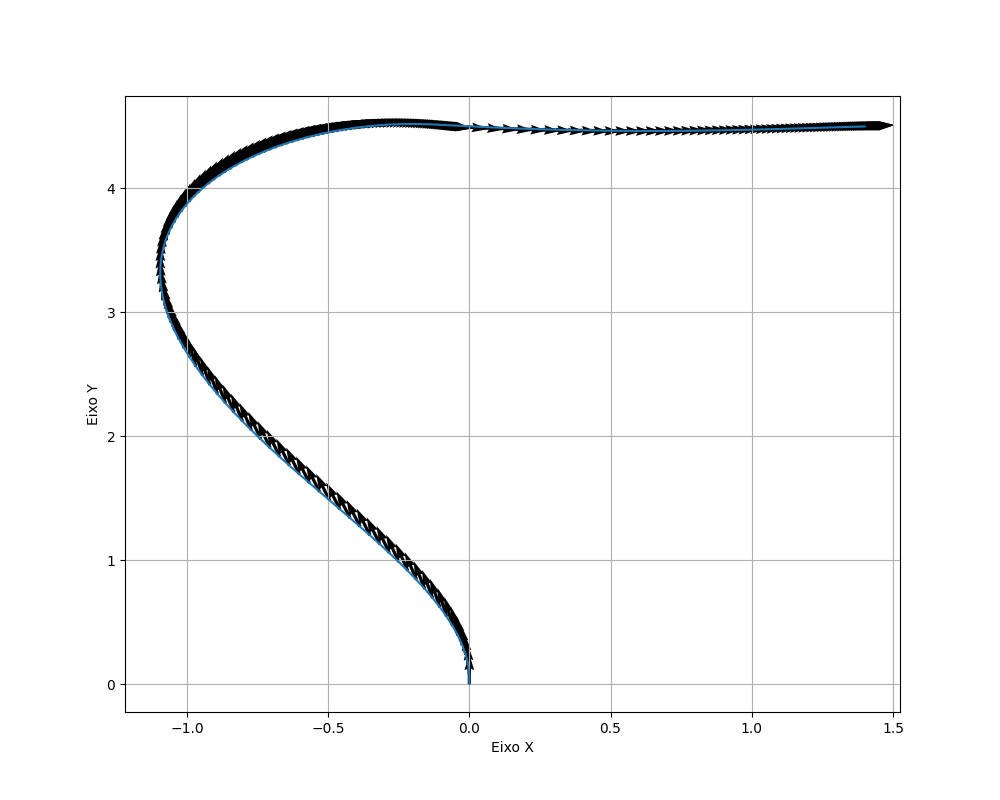
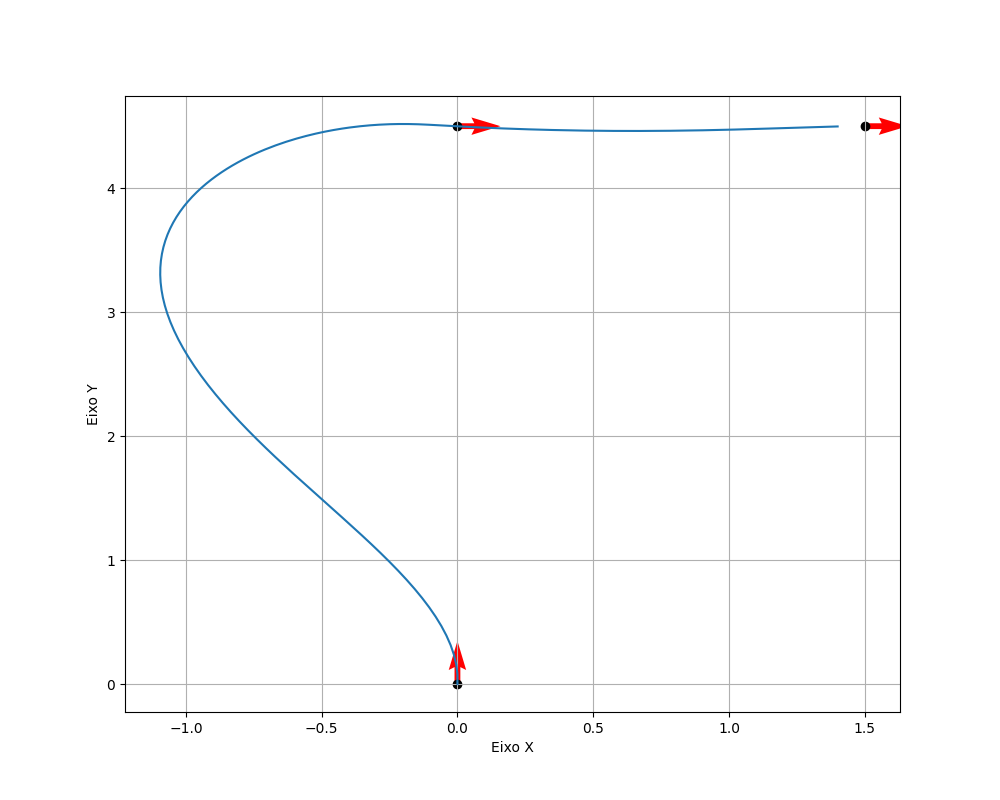
updating plot method

diff --git a/Trabalhos/Trabalho 2/robot.py b/Trabalhos/Trabalho 2/robot.py
@@ -104,7 +104,8 @@ class Robot:
                 self.differentialMovement(dt)
                 history.append(self.get_position())
                 rho, gamma, alpha, beta = self.calculateParametersToGoal(goal)
-        self.plot(values = history,pathToFigure=pathToFigure)
+        goals.insert(0,(0,0,np.deg2rad(90)))
+        self.plot(values = history,pathToFigure=pathToFigure,goals=goals)
 
     def adjustAngle(self,angle):
         angle = angle % (2 * math.pi)
@@ -143,7 +144,7 @@ class Robot:
         w = Kalpha * alpha + Kbeta * beta if abs(Kalpha * alpha + Kbeta * beta) < abs(wmax) else wmax
         return v, w
 
-    def plot(self,values,pathToFigure,hasRadius = False):
+    def plot(self,values,pathToFigure,hasRadius = False,goals = None):
         # values = [ [x1, y1, theta1], [x2, y2, theta2], ...]
         x_values = [value[0] for value in values]
         y_values = [value[1] for value in values]
@@ -151,7 +152,11 @@ class Robot:
         
         plt.figure(figsize=(10, 8))  
         plt.plot(x_values, y_values)
-        plt.quiver(x_values, y_values, [math.cos(theta) for theta in theta_values], [math.sin(theta) for theta in theta_values])
+        if(goals != None):
+            for goal in goals:
+                plt.quiver(goal[0], goal[1], [math.cos(goal[2])], [math.sin(goal[2])], color='red')
+                plt.scatter(goal[0], goal[1], color='k')
+        #plt.quiver(x_values, y_values, [math.cos(theta) for theta in theta_values], [math.sin(theta) for theta in theta_values])
         plt.xlabel('Eixo X')
         plt.ylabel('Eixo Y')
         if(hasRadius):
